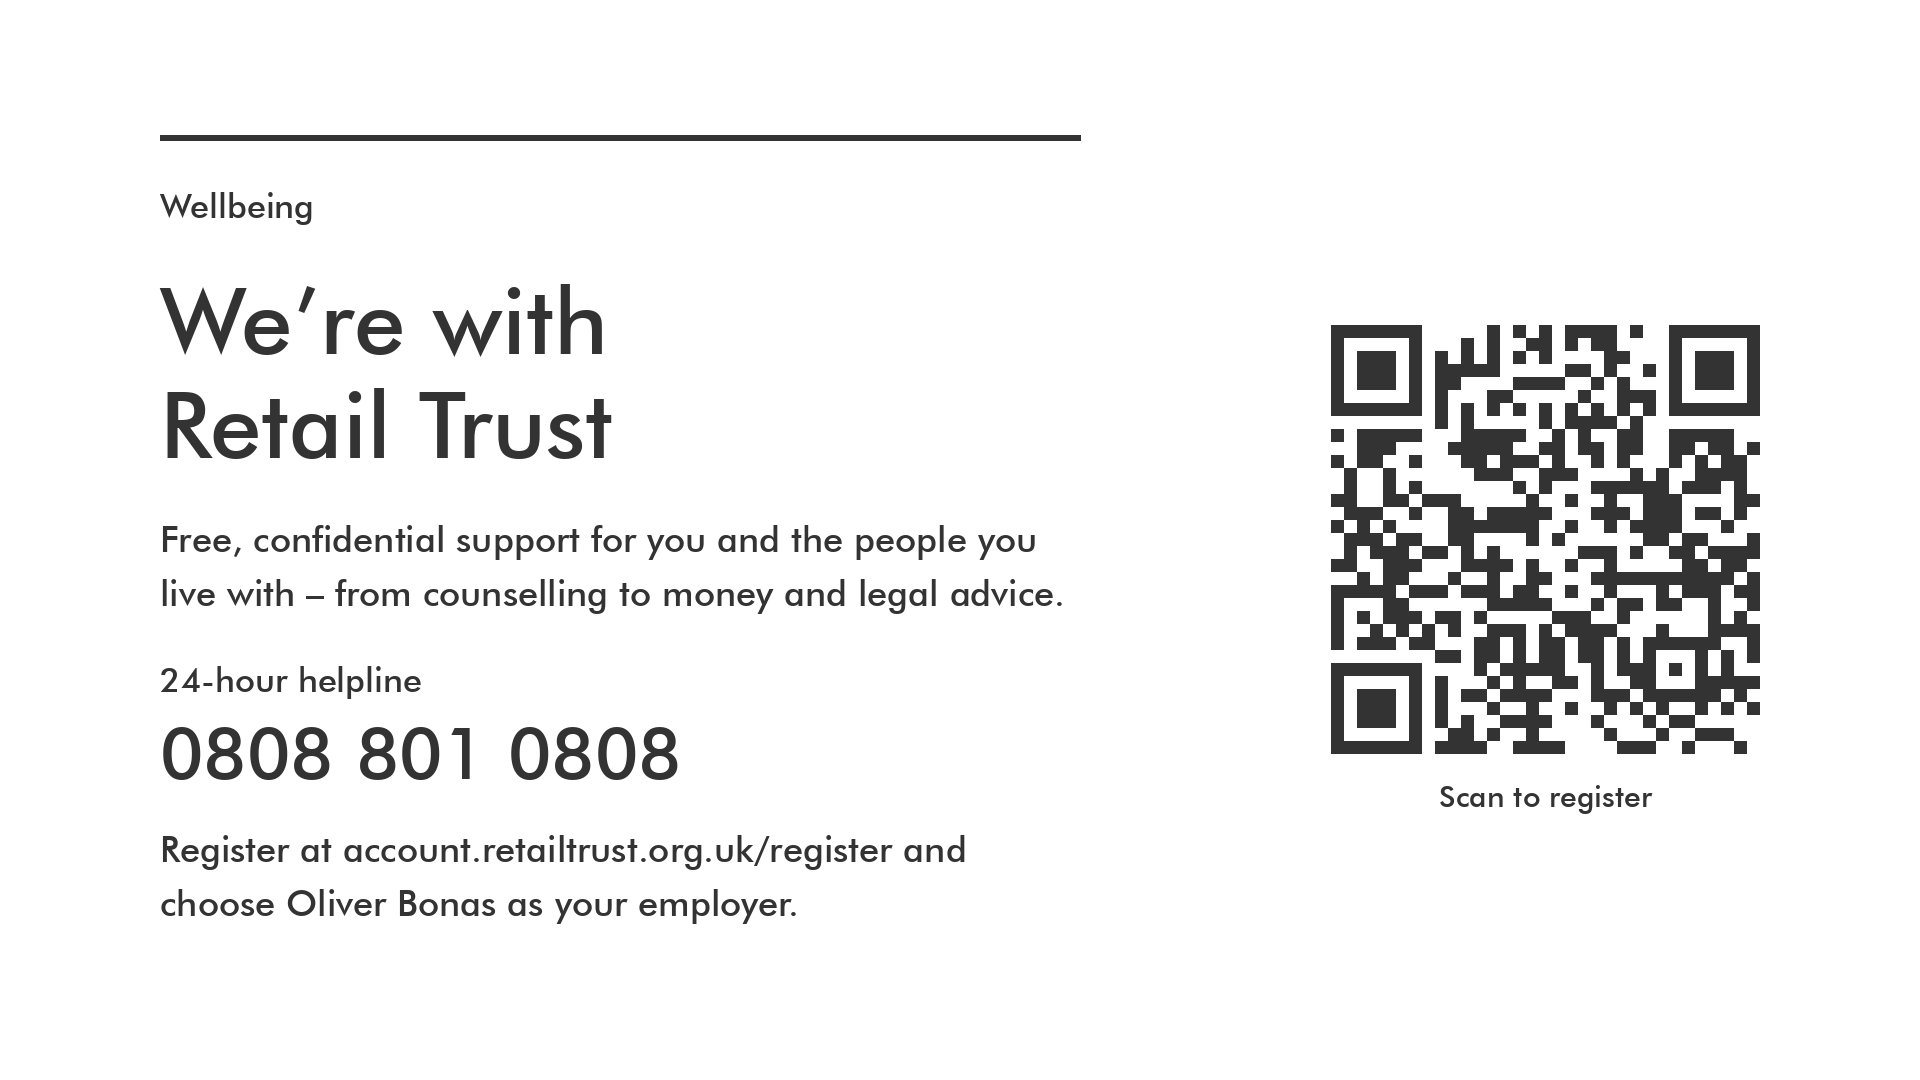
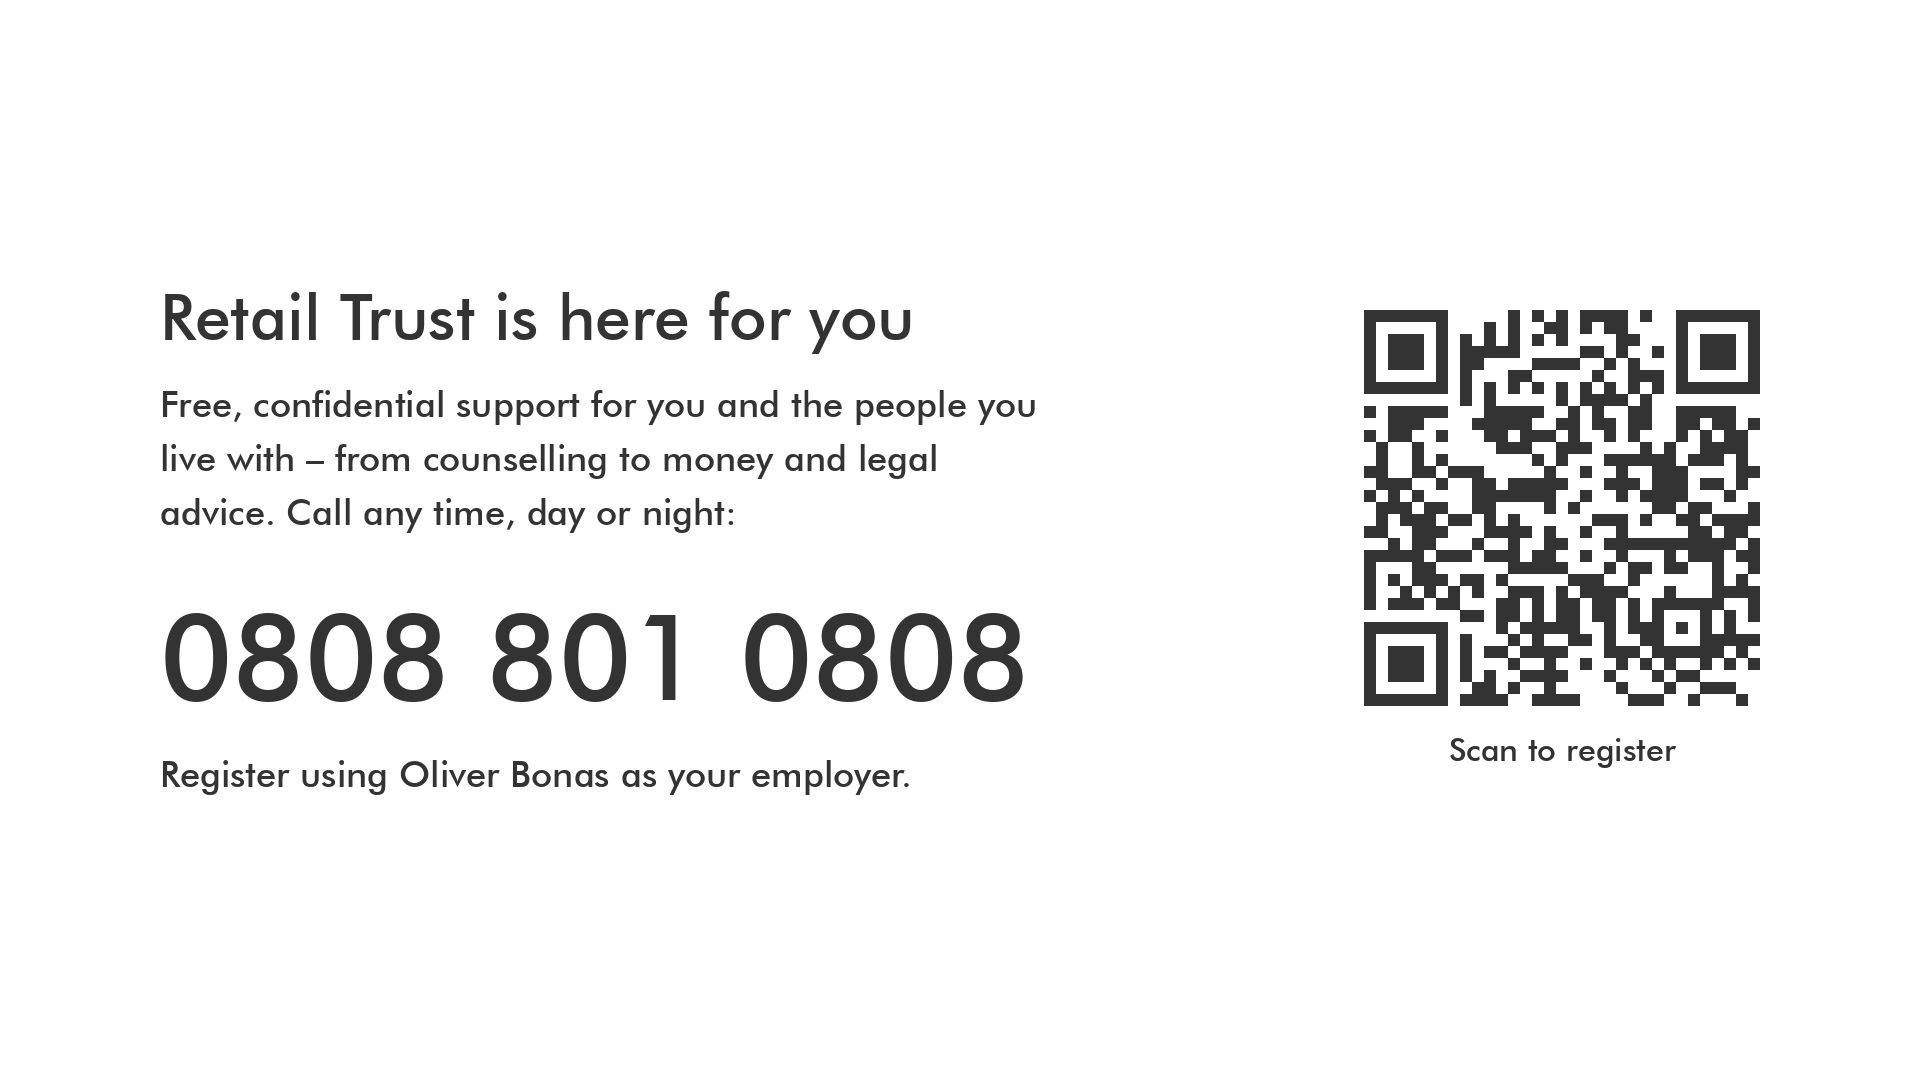
new slides

diff --git a/index.html b/index.html
@@ -95,8 +95,8 @@
 
   <!-- SLIDES: add, remove or reorder here. Each shows for SLIDE_SECONDS after the video. -->
   <div class="slides">
-    <img class="slide" src="slide-values-in-action.png" alt="Values in Action – who made your quarter? Scan to nominate. Nominations close 16th December.">
-    <img class="slide" src="slide-retail-trust.png" alt="We’re with Retail Trust. 24-hour helpline 0808 801 0808. Register at account.retailtrust.org.uk/register and choose Oliver Bonas as your employer.">
+    <img class="slide" src="slide-values-in-action.png" alt="Who made your quarter? Nominate someone who’s shown Work Hard, Play Hard or Be Kind for Values in Action. Nominations close 16th December. Scan to nominate.">
+    <img class="slide" src="slide-retail-trust.png" alt="Retail Trust is here for you. Free, confidential support, day or night: 0808 801 0808. Register using Oliver Bonas as your employer. Scan to register.">
   </div>
   <div class="fallback" id="fallback"><img alt="OB Talks: Olly and Nick take on the question bowl" src="cover.jpg"></div>
 
